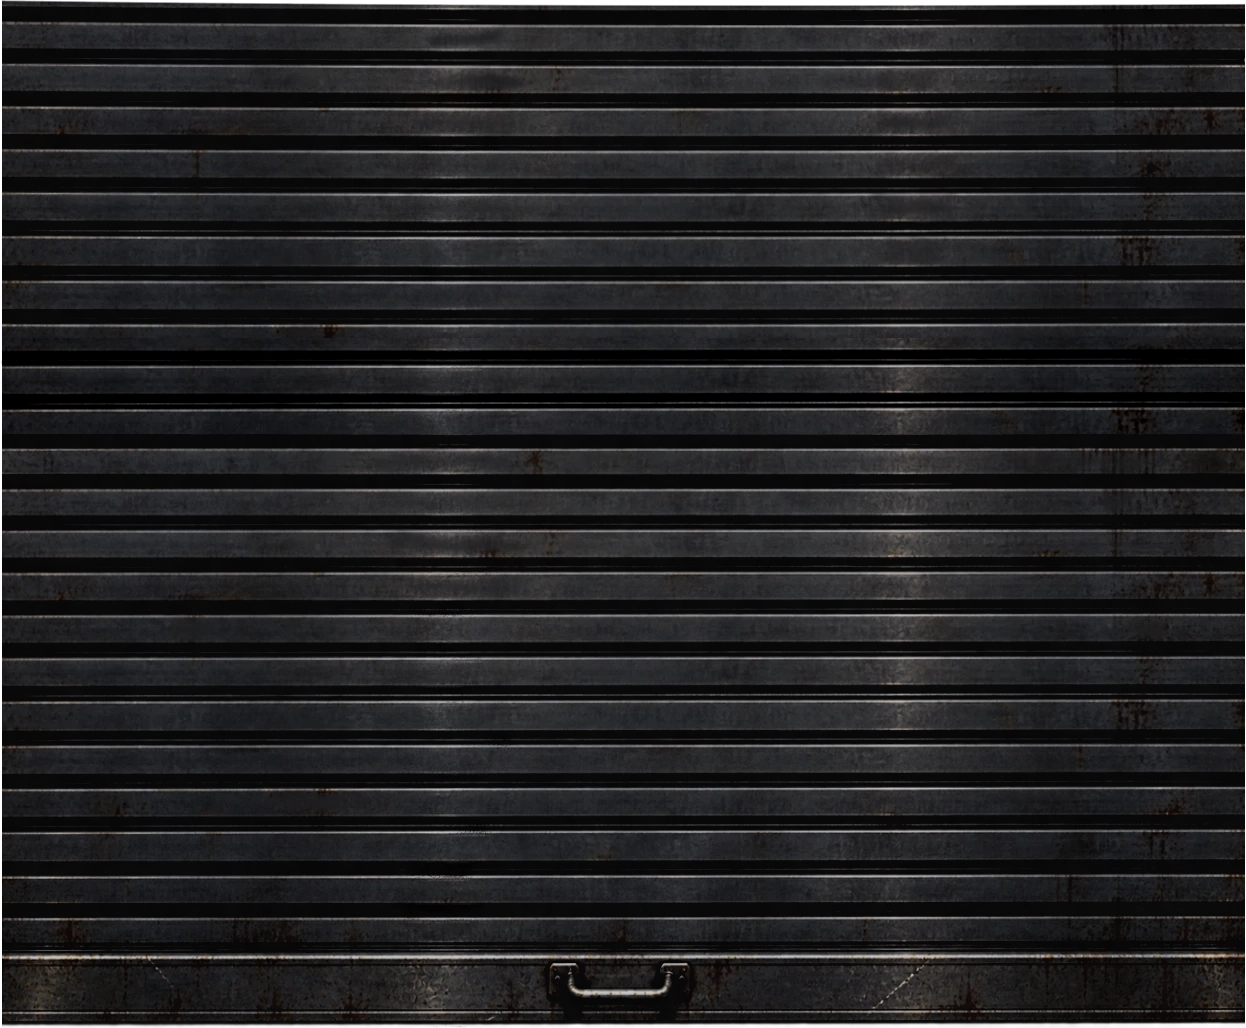
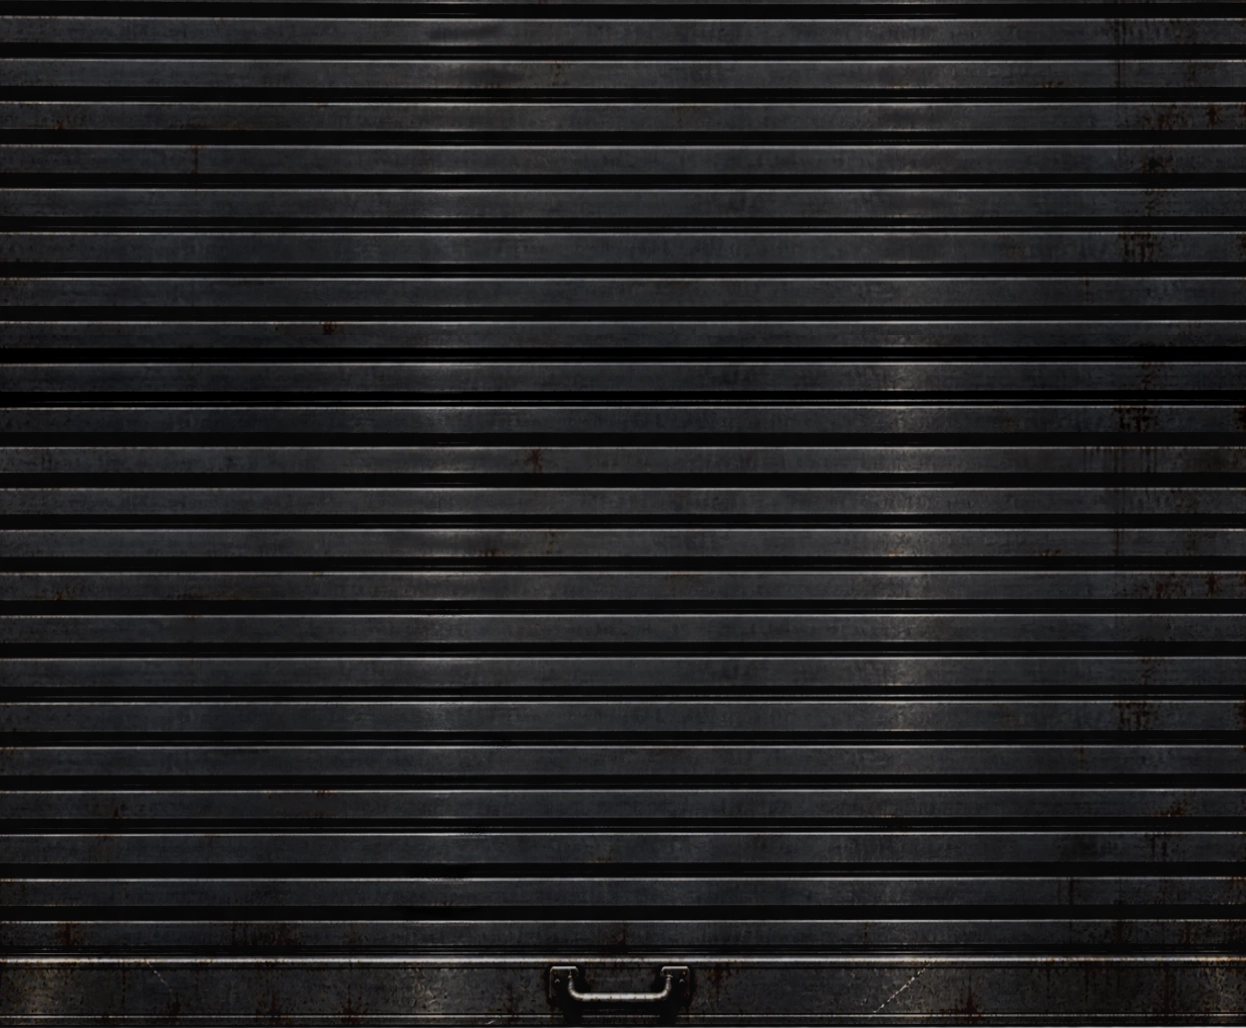
Art: door-steel re-export without the side whitespace
Corey stretched the slats over the pale strips that his previous export
left along both edges (visible on staging as light bands inside the
frame). Same 1246x1028; stamp regenerated.

Claude-Session: https://claude.ai/code/session_013n4uKDP3YQ8SN8dqeXSaxL

diff --git a/apps/angry_mantis/src/game/assetStamp.ts b/apps/angry_mantis/src/game/assetStamp.ts
@@ -65,7 +65,7 @@ export default {
 	"ui/cafeteria-background-base-bonus.webp": "06b5c8d4",
 	"ui/cafeteria-background-feast.webp": "9b9bdb69",
 	"ui/cafeteria-background-super.webp": "e240c948",
-	"ui/door-steel.webp": "eeb13b03",
+	"ui/door-steel.webp": "b47482d0",
 	"ui/frame-desktop.png": "70055e47",
 	"ui/frame-mobile.png": "69528728",
 	"ui/gold-alphabet/glyphs.json": "c2f1eee6",
